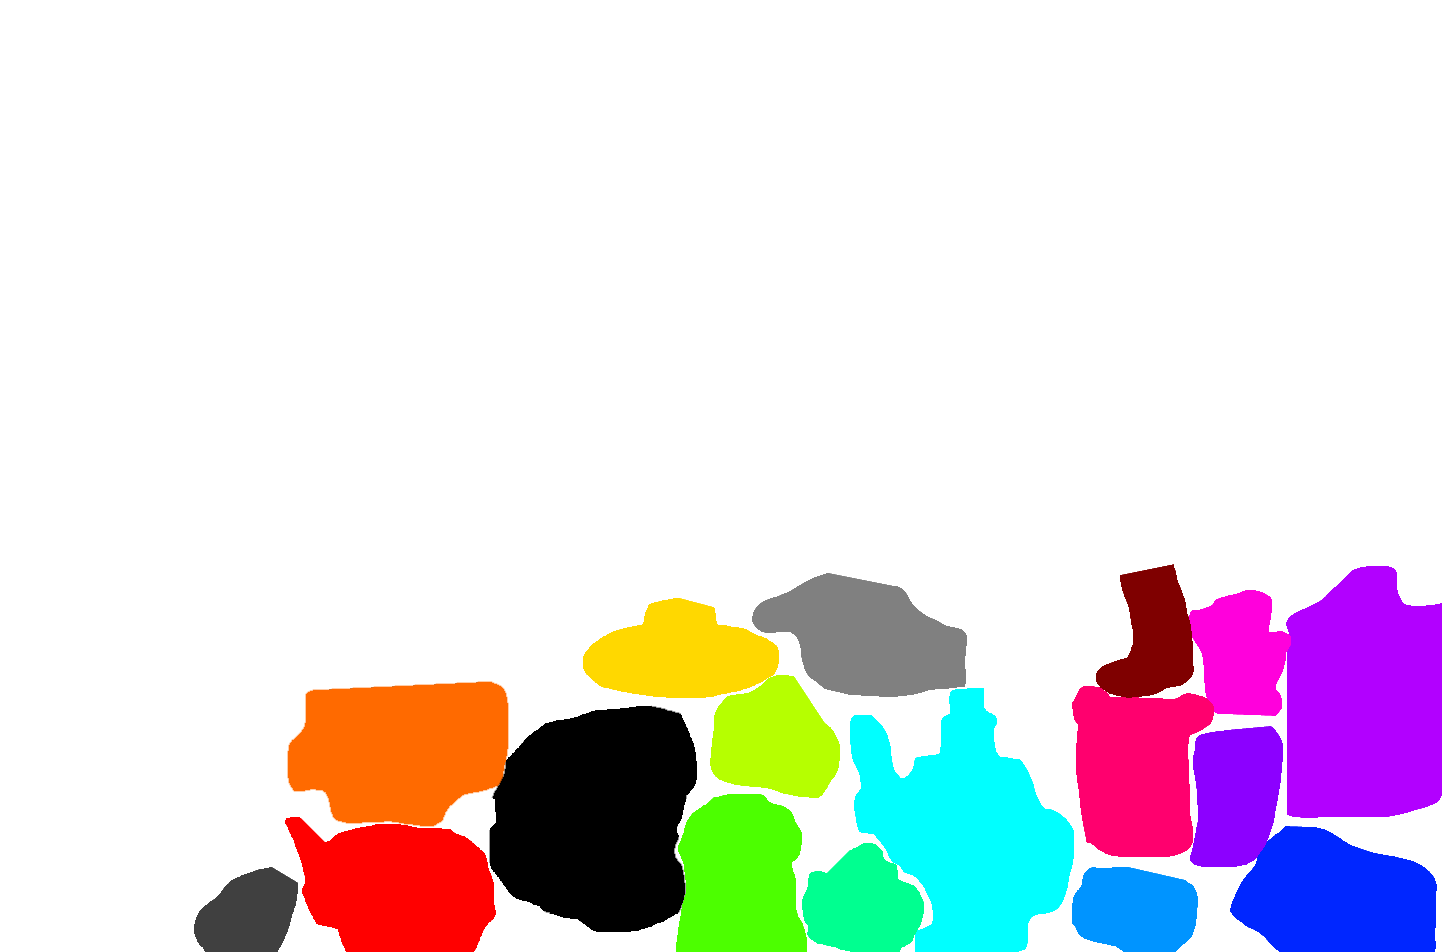
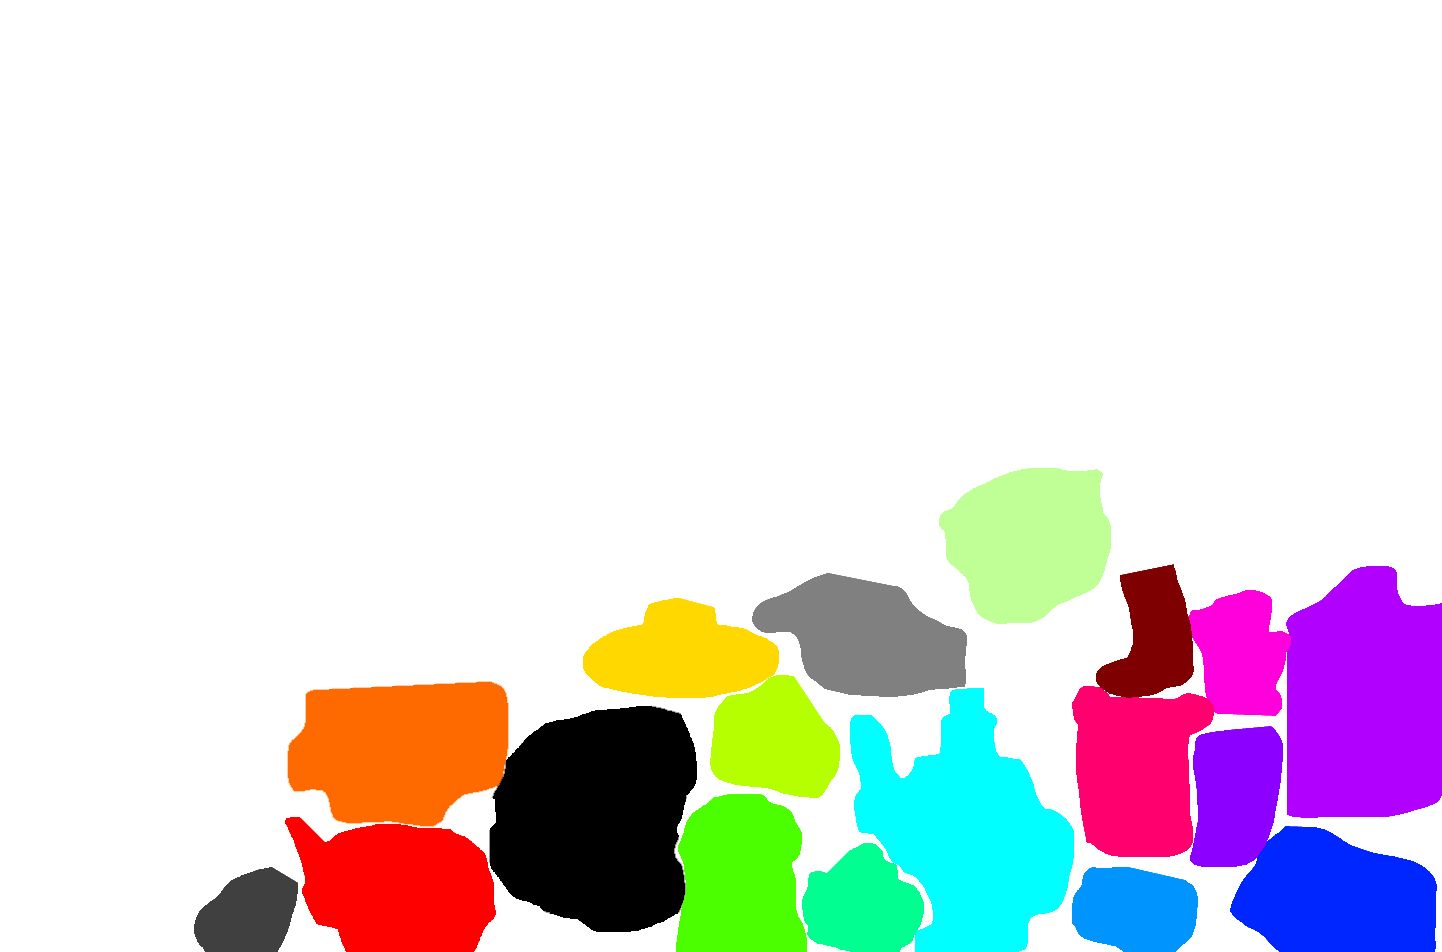
Add peanut bee

Changed region(s): [[0.6553, 0.4874, 0.7802, 0.6702]]

diff --git a/game/core/src/com/roguelikedeckbuilder/mygame/animated/character/CharacterData.java b/game/core/src/com/roguelikedeckbuilder/mygame/animated/character/CharacterData.java
@@ -97,6 +97,7 @@ public class CharacterData {
             case "8c00ffff" -> characterTypeName = CharacterTypeName.HOT_DOG;
             case "0026ffff" -> characterTypeName = CharacterTypeName.ANTEATER;
             case "b200ffff" -> characterTypeName = CharacterTypeName.MONOLITH;
+            case "c0ff96ff" -> characterTypeName = CharacterTypeName.PEANUT_BEE;
             default -> {
                 System.out.println("Got this color: " + colorString + " which doesn't correspond to anything");
                 return CharacterTypeName.HELMET_PENGUIN;
@@ -203,6 +204,12 @@ public class CharacterData {
                     this.internalName = "monolith";
                     standingAnimationFrameDelays = new ArrayList<>(Collections.nCopies(8, 0.010f));
                     this.origin = new XYPair<>(115, 240);
+                    this.dimensions = new XYPair<>(220, 270);
+                    break;
+                case PEANUT_BEE:
+                    this.internalName = "peanut bee";
+                    standingAnimationFrameDelays = new ArrayList<>(Collections.nCopies(2, 0.010f));
+                    this.origin = new XYPair<>(110, 260);
                     this.dimensions = new XYPair<>(220, 270);
                     break;
                 case POINTER:

diff --git a/game/core/src/com/roguelikedeckbuilder/mygame/combat/enemy/EnemyData.java b/game/core/src/com/roguelikedeckbuilder/mygame/combat/enemy/EnemyData.java
@@ -98,6 +98,11 @@ public class EnemyData {
                     abilityOptions = prepareOptions(AbilityTypeName.DEFEND_UPGRADED, AbilityTypeName.HEAL_SELF_ENEMY);
                     enemyClassification = EnemyClassification.NORMAL;
                     break;
+                case PEANUT_BEE:
+                    maxHp = 20;
+                    abilityOptions = prepareOptions(AbilityTypeName.DEFEND_UPGRADED, AbilityTypeName.HEAL_SELF_ENEMY);
+                    enemyClassification = EnemyClassification.NORMAL;
+                    break;
                 case POINTER:
                     maxHp = 20;
                     abilityOptions = prepareOptions(AbilityTypeName.DEFEND_UPGRADED, AbilityTypeName.FIRE_STRIKE);

diff --git a/game/core/src/com/roguelikedeckbuilder/mygame/stages/mainmenu/MainMenuStage.java b/game/core/src/com/roguelikedeckbuilder/mygame/stages/mainmenu/MainMenuStage.java
@@ -85,6 +85,7 @@ public class MainMenuStage extends GenericStage {
         getStage().addActor(new Character(CharacterTypeName.MONOLITH, 68, 7));
         getStage().addActor(new Character(CharacterTypeName.ALIEN, 34, 11.3f));
         getStage().addActor(new Character(CharacterTypeName.HAM_AND_FIST, 43.3f, 0));
+        getStage().addActor(new Character(CharacterTypeName.PEANUT_BEE, 51f, 13));
 
         Group creditsHolder = new Group();
         creditsHolder.setTouchable(Touchable.disabled);

diff --git a/game/core/src/com/roguelikedeckbuilder/mygame/animated/character/CharacterTypeName.java b/game/core/src/com/roguelikedeckbuilder/mygame/animated/character/CharacterTypeName.java
@@ -14,6 +14,7 @@ public enum CharacterTypeName {
     KNIGHT,
     KING_OF_THE_BURROW,
     MONOLITH,
+    PEANUT_BEE,
     POINTER,
     SAD_DOLLAR,
     SOCK,
